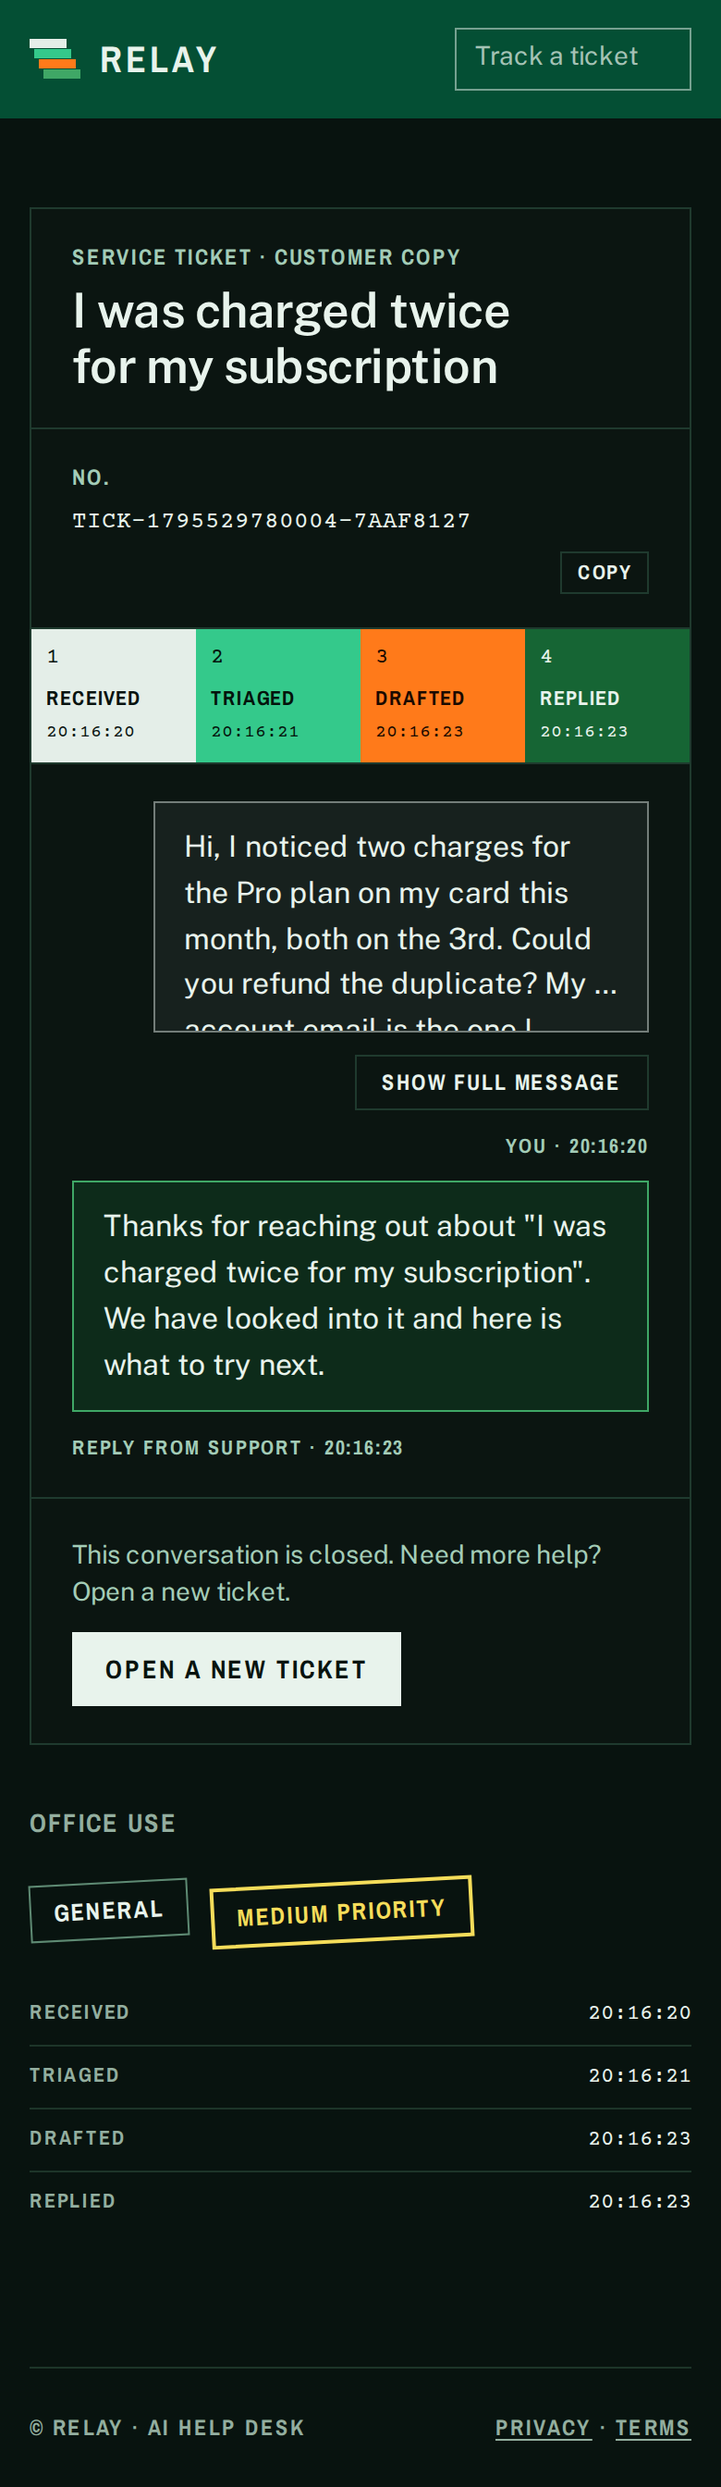
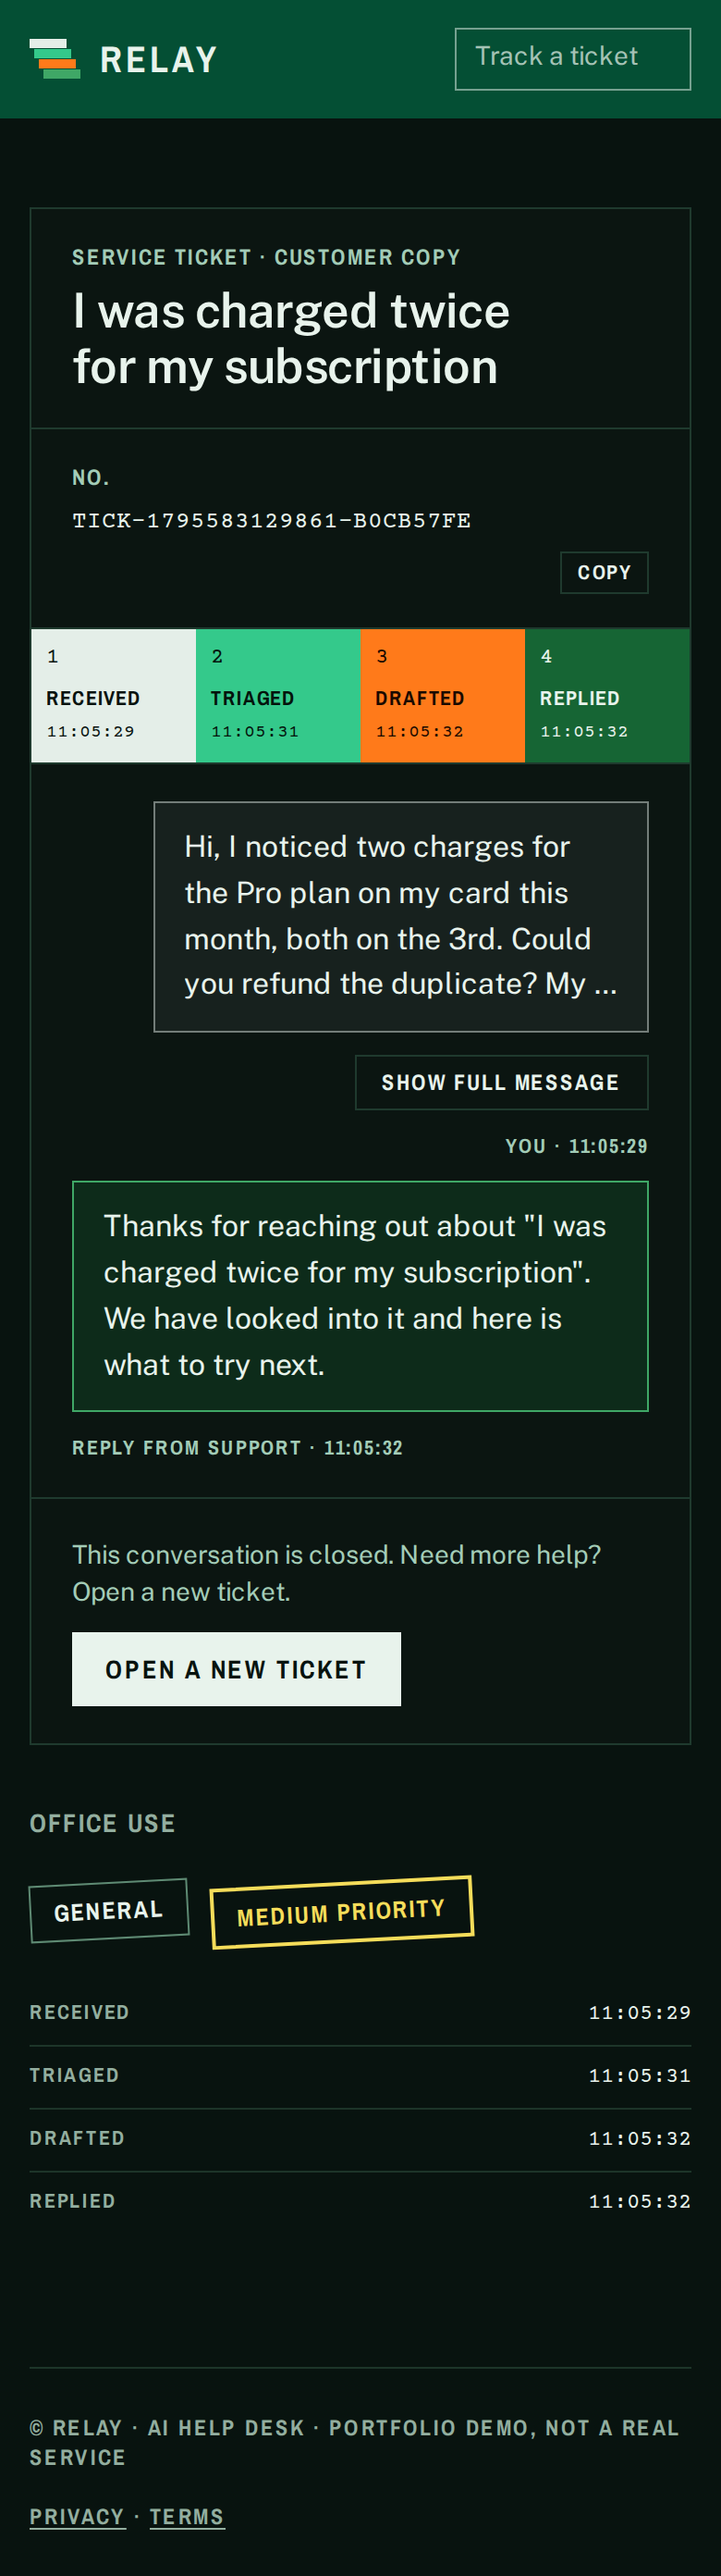
docs: add go-live README, ops checklist and refreshed screenshots (#31)
* docs: refresh the portfolio screenshots

Regenerate the README screenshots with the story harness so the gallery and
the flow GIF show the current UI. The harness runs the e2e stack with the fake
LLM and its own database, so the captures cost no provider credits.

* docs: cover go-live status, gallery and manual checklist

The story asks for a README that tells the truth about the live demo and the
one part a headless check cannot cover. State that there is no status page or
uptime monitor and link the public /health/live endpoint, since an outside
pinger would keep the free service awake and spend Neon compute hours. Add a
compact four-image gallery under the flow GIF, name the read-only smoke
command, and add the numbered submit-and-watch checklist to the ops runbook,
with the real-LLM-cost and no-personal-data rules.

* test(api): guard the go-live README and ops checklist

The story's README points are easy to drop in a later edit, so pin them: the
four gallery images must be embedded and exist, the README must state there is
no status page and link /health/live, it must name the read-only smoke command
and link the manual checklist, and the ops runbook must keep its submit-and-
watch section with the real-LLM-cost warning.

* fix(docs): correct go-live claims and tighten the guards

Review round 1: the queue options must name the 3 April 2027 AWS free-plan
end (ElasticMQ is the fallback after it), the ops checklist must use the real
[…]

diff --git a/apps/api/tests/unit/portfolio/portfolio-docs.portfolio.test.ts b/apps/api/tests/unit/portfolio/portfolio-docs.portfolio.test.ts
@@ -15,6 +15,12 @@ const DOCS = path.join(ROOT, 'docs');
 
 const read = (file: string) => readFileSync(file, 'utf8');
 
+/** True when a repository-relative target exists and is a non-empty file. */
+function nonEmptyFile(target: string): boolean {
+  const file = path.resolve(ROOT, target);
+  return existsSync(file) && statSync(file).size > 0;
+}
+
 type RootManifest = { license?: string; engines: { node: string } };
 const manifest = (): RootManifest =>
   JSON.parse(read(path.join(ROOT, 'package.json'))) as RootManifest;
@@ -132,6 +138,17 @@ function lastContentRow(image: DecodedPng): number {
   return -1;
 }
 
+/** Markdown images plus HTML <img src>, so the README gallery may use either form. */
+function embeddedImages(markdown: string): string[] {
+  const images: string[] = [];
+  const markdownPattern = /!\[[^\]]*\]\(([^)\s]+)(?:\s+"[^"]*")?\)/g;
+  let match: RegExpExecArray | null;
+  while ((match = markdownPattern.exec(markdown)) !== null) images.push(match[1]);
+  const htmlPattern = /<img\b[^>]*\bsrc="([^"]+)"/g;
+  while ((match = htmlPattern.exec(markdown)) !== null) images.push(match[1]);
+  return images;
+}
+
 /** Markdown inline links and images, minus anchor-only targets and absolute URLs. */
 function relativeLinks(markdown: string): string[] {
   const links: string[] = [];
@@ -218,6 +235,13 @@ describe('portfolio: README truthfulness', () => {
     expect(readme).toContain('SQS_ENDPOINT');
   });
 
+  it('names the AWS free-plan end date and ElasticMQ as the fallback after it', () => {
+    const start = readme.indexOf('### Queue options');
+    const queue = readme.slice(start, readme.indexOf('\n## ', start));
+    expect(queue).toContain('3 April 2027');
+    expect(queue).toContain('ElasticMQ');
+  });
+
   it('states the Node version the repository actually requires', () => {
     const minimum = manifest().engines.node.replace(/[^0-9.]/g, '');
     expect(readme).toContain(minimum);
@@ -230,10 +254,7 @@ describe('portfolio: screenshots', () => {
       target.startsWith('docs/screenshots/')
     );
     expect(embedded.length).toBeGreaterThan(0);
-    const problems = embedded.filter((target) => {
-      const file = path.resolve(ROOT, target);
-      return !existsSync(file) || statSync(file).size === 0;
-    });
+    const problems = embedded.filter((target) => !nonEmptyFile(target));
     expect(problems).toEqual([]);
   });
 
@@ -261,5 +282,59 @@ describe('portfolio: screenshots', () => {
 describe('portfolio: ops alert subject', () => {
   it('does not document the retired [Ticket Pipe] alert subject', () => {
     expect(read(path.join(ROOT, 'docs/ops.md'))).not.toContain('[Ticket Pipe]');
+  });
+});
+
+const GALLERY = [
+  'docs/screenshots/landing.png',
+  'docs/screenshots/ticket-completed.png',
+  'docs/screenshots/ops-drawer.png',
+  'docs/screenshots/mobile-ticket.png',
+];
+
+describe('portfolio: README go-live gallery', () => {
+  it('embeds the four gallery screenshots, each an existing non-empty file', () => {
+    const embedded = embeddedImages(read(README));
+    for (const target of GALLERY) expect(embedded).toContain(target);
+    expect(GALLERY.filter((target) => !nonEmptyFile(target))).toEqual([]);
+  });
+});
+
+describe('portfolio: README go-live status and smoke', () => {
+  const readme = read(README);
+
+  it('states there is no status page and links the live liveness endpoint', () => {
+    expect(readme.toLowerCase()).toContain('no status page');
+    expect(readme).toContain('<https://ticket-pipeline.onrender.com/health/live>');
+  });
+
+  it('names the read-only live smoke command', () => {
+    expect(readme).toContain('bun run smoke:live');
+  });
+
+  it('links the manual submit-and-watch checklist', () => {
+    expect(readme).toContain('docs/ops.md#go-live-submit-and-watch');
+  });
+});
+
+describe('portfolio: ops go-live checklist', () => {
+  const ops = read(path.join(DOCS, 'ops.md'));
+  const start = ops.indexOf('## Go-live submit and watch\n');
+  const section = start === -1 ? '' : ops.slice(start);
+
+  it('has a Go-live submit and watch section that warns about real LLM spend', () => {
+    expect(section).toMatch(/^## Go-live submit and watch$/m);
+    expect(section).toMatch(/real LLM credits/);
+  });
+
+  it('uses the reference format the API generates', () => {
+    expect(section).toMatch(/TICK-\d{13}-[0-9A-F]{8}/);
+    expect(section).not.toContain('TKT-001');
+  });
+
+  it('names every cap a live submit counts against', () => {
+    for (const name of ['LLM_DAILY_CAP', 'TICKET_DAILY_CAP', 'TICKET_IP_HOURLY_LIMIT']) {
+      expect(section).toContain(name);
+    }
   });
 });

diff --git a/README.md b/README.md
@@ -12,6 +12,17 @@ The demo runs on Render's free tier, which sleeps after 15 minutes without traff
 
 ![The customer flow: submit a ticket, watch it triaged, read the reply](docs/screenshots/customer-flow.gif)
 
+<table>
+  <tr>
+    <td><img src="docs/screenshots/landing.png" alt="Landing page: the headline, the Submit a ticket button and a sample ticket preview" width="380"></td>
+    <td><img src="docs/screenshots/ticket-completed.png" alt="A finished ticket with the support reply and its event timeline" width="380"></td>
+  </tr>
+  <tr>
+    <td><img src="docs/screenshots/ops-drawer.png" alt="Ops console drawer showing a ticket and its recorded AI calls" width="380"></td>
+    <td><img src="docs/screenshots/mobile-ticket.png" alt="The same ticket on a phone" width="180"></td>
+  </tr>
+</table>
+
 ## What it shows
 
 - **LLMs in a real pipeline.** Two stages (triage, then draft), each returning schema-validated JSON, with timeouts, retries and a backup provider.
@@ -78,7 +89,7 @@ The queue is the AWS SQS API, so it talks to any implementation of it. Locally `
 | LocalStack (local dev, e2e, CI)                                                         | `http://localhost:4566`                          | same              | The placeholder `test` credentials are enough; `bun --filter @relay/api setup` makes queues. |
 | [ElasticMQ](docs/production-infra.md#7-switch-to-elasticmq-hosting-is-an-open-decision) | the ElasticMQ host, e.g. `http://localhost:9324` | **must be empty** | No SNS, so ops email alerts are off; queue behaviour is otherwise the same.                  |
 
-The switch is one variable: nothing in the app changes. `docs/production-infra.md` records the local proof and the caveats (no SNS, different DLQ redrive timing, no managed multi-AZ).
+The switch is one variable: nothing in the app changes. The AWS free plan ends on **3 April 2027**; after that, ElasticMQ is the fallback. `docs/production-infra.md` records the local proof and the caveats (no SNS, different DLQ redrive timing, no managed multi-AZ).
 
 For a production-style local run, build once and start the API and worker together:
 
@@ -145,7 +156,9 @@ curl -sS https://ticket-pipeline.onrender.com/health/live    # {"status":"ok"}
 curl -sS https://ticket-pipeline.onrender.com/health/ready   # {"status":"ok"}
 ```
 
-`/health/live` only proves the process is up. `/health/ready` also queries Postgres, so it is the one that reports a cold or suspended database truthfully. The free tier spins the service down after 15 minutes without traffic and Neon suspends its compute after 5 minutes idle, so the first request after a quiet period is slow (about a minute) while both wake. There is no uptime monitor: keeping the service awake would exhaust Neon's free compute allowance (the maths is in [deployment.md](docs/deployment.md#free-plan-behavior)). See [Deploying to Render](docs/deployment.md) for the variable list, the free-plan behavior and rollback.
+The read-only check against the live host is `bun run smoke:live` (see [the live smoke check](docs/deployment.md#live-smoke-check)); the ticket submit is the manual [go-live submit and watch](docs/ops.md#go-live-submit-and-watch) checklist.
+
+`/health/live` only proves the process is up. `/health/ready` also queries Postgres, so it is the one that reports a cold or suspended database truthfully. The free tier spins the service down after 15 minutes without traffic and Neon suspends its compute after 5 minutes idle, so the first request after a quiet period is slow (about a minute) while both wake. There is no status page or uptime monitor; check liveness directly at <https://ticket-pipeline.onrender.com/health/live>. An outside pinger would keep the sleeping free-plan service awake and spend Neon's free compute hours (the maths is in [deployment.md](docs/deployment.md#free-plan-behavior)). See [Deploying to Render](docs/deployment.md) for the variable list, the free-plan behavior and rollback.
 
 The demo has no login for customers, so treat any ticket as public and do not submit real personal data. Tickets are deleted 30 days after creation by the retention sweep.
 

diff --git a/docs/ops.md b/docs/ops.md
@@ -514,3 +514,32 @@ the ops alert topic`. The live feed and ticket processing are unaffected; alerts
 Switching production is: run ElasticMQ on a host that does not sleep (the reason `PA-7.8-03` is still
 open on the free Render plan), create the queues with the script, set `SQS_ENDPOINT` and clear
 `SNS_ENDPOINT` in the Render dashboard, redeploy, and run `bun --filter @relay/api smoke:infra`.
+
+## Go-live submit and watch
+
+The read-only live check, `bun run smoke:live`, proves both health routes, the 401 wall and the
+refused `ops:subscribe` without a session. It cannot submit a ticket: production needs a real
+Turnstile challenge and real provider keys, so the submit-and-watch half is manual. Run it on the
+live site (`https://ticket-pipeline.onrender.com`) after a deploy, or before signing the release off:
+
+1. **Open the form.** Go to <https://ticket-pipeline.onrender.com/new>. The first request after a
+   quiet period can take about a minute while the free service and the database wake.
+2. **Submit fake data.** Fill in a short ticket with obviously fake content (for example "Test
+   ticket for the go-live check", "Ignore this, it is not a real customer") and complete the
+   Turnstile check as a human. Do not enter any real personal data.
+3. **Note the reference.** The ticket page shows a reference like `TICK-1791462896000-9F2A1C07`
+   (the format is `TICK-<timestamp>-<hex>`). Write it down with the UTC time.
+4. **Watch it live.** Stay on the ticket page and watch the status move through triage and drafting
+   to completed, with the reply appearing without a refresh. A reload should show the same final
+   state.
+5. **Check the ops view.** Open <https://ticket-pipeline.onrender.com/ops>, sign in with
+   `OPS_TOKEN`, find the ticket by its reference and open its drawer. Confirm the recorded AI
+   calls for both stages are listed.
+6. **Confirm the sign-out.** Sign out, then reload `/ops`; the console must ask for sign-in again.
+
+Each run makes real provider calls and **spends real LLM credits**, and it counts against the daily
+LLM cap (`LLM_DAILY_CAP`), the daily ticket cap (`TICKET_DAILY_CAP`) and the hourly per-IP limit
+(`TICKET_IP_HOURLY_LIMIT`). Record the ticket reference, the UTC time and pass or fail per step, and
+nothing else: no names, email addresses or ticket text beyond the obviously fake content. A failure
+at step 4 or 5 is an incident: follow the [Ticket Recovery](#ticket-recovery) procedure and check
+the ops feed.
